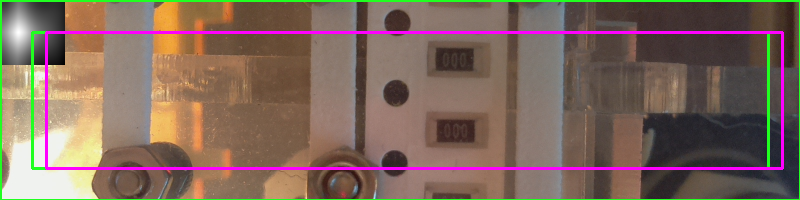
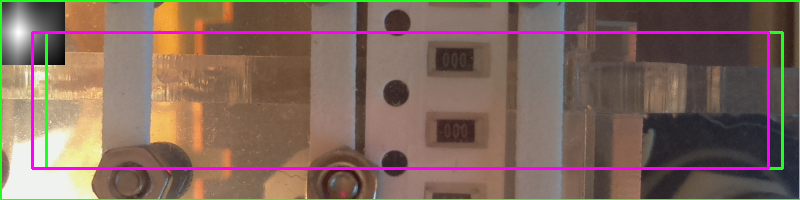
offset-color reorder

Changed region(s): [[0.9375, 0.15, 1.0, 0.87], [0.0312, 0.15, 0.0625, 0.87]]

diff --git a/calcOffset.cpp b/calcOffset.cpp
@@ -92,19 +92,12 @@ bool Pipeline::apply_calcOffset(json_t *pStage, json_t *pStageModel, Model &mode
 
     json_t *pRect = json_object();
     json_array_append(pRects, pRect);
-    json_object_set(pRect, "x", json_integer(roi.x+roi.width/2));
-    json_object_set(pRect, "y", json_integer(roi.y+roi.height/2));
-    json_object_set(pRect, "width", json_integer(roi.width));
-    json_object_set(pRect, "height", json_integer(roi.height));
-    json_object_set(pRect, "angle", json_integer(0));
-
-    pRect = json_object();
-    json_array_append(pRects, pRect);
     json_object_set(pRect, "x", json_integer(roiScan.x+roiScan.width/2));
     json_object_set(pRect, "y", json_integer(roiScan.y+roiScan.height/2));
     json_object_set(pRect, "width", json_integer(roiScan.width));
     json_object_set(pRect, "height", json_integer(roiScan.height));
     json_object_set(pRect, "angle", json_integer(0));
+    json_t *pOffsetColor = NULL;
 
     for (int iChannel=0; iChannel<channels.size(); iChannel++) {
       int channel = channels[iChannel];
@@ -155,14 +148,26 @@ bool Pipeline::apply_calcOffset(json_t *pStage, json_t *pStageModel, Model &mode
 	    json_object_set(pOffsetRect, "width", json_integer(roi.width));
 	    json_object_set(pOffsetRect, "height", json_integer(roi.height));
 	    json_object_set(pOffsetRect, "angle", json_integer(0));
-	    json_t *pColor = json_array();
-	    json_array_append(pColor, json_integer(offsetColor[0]));
-	    json_array_append(pColor, json_integer(offsetColor[1]));
-	    json_array_append(pColor, json_integer(offsetColor[2]));
-	    json_object_set(pOffsetRect, "color", pColor);
+	    if (!pOffsetColor) {
+	      pOffsetColor = json_array();
+	      json_array_append(pOffsetColor, json_integer(offsetColor[0]));
+	      json_array_append(pOffsetColor, json_integer(offsetColor[1]));
+	      json_array_append(pOffsetColor, json_integer(offsetColor[2]));
+	    }
 	  }
 	}
       }
+    }
+
+    json_t *pRoiRect = json_object();
+    json_array_append(pRects, pRoiRect);
+    json_object_set(pRoiRect, "x", json_integer(roi.x+roi.width/2));
+    json_object_set(pRoiRect, "y", json_integer(roi.y+roi.height/2));
+    json_object_set(pRoiRect, "width", json_integer(roi.width));
+    json_object_set(pRoiRect, "height", json_integer(roi.height));
+    json_object_set(pRoiRect, "angle", json_integer(0));
+    if (pOffsetColor) {
+      json_object_set(pRoiRect, "color", pOffsetColor);
     }
 
     normalize(result, result, 0, 255, NORM_MINMAX);
